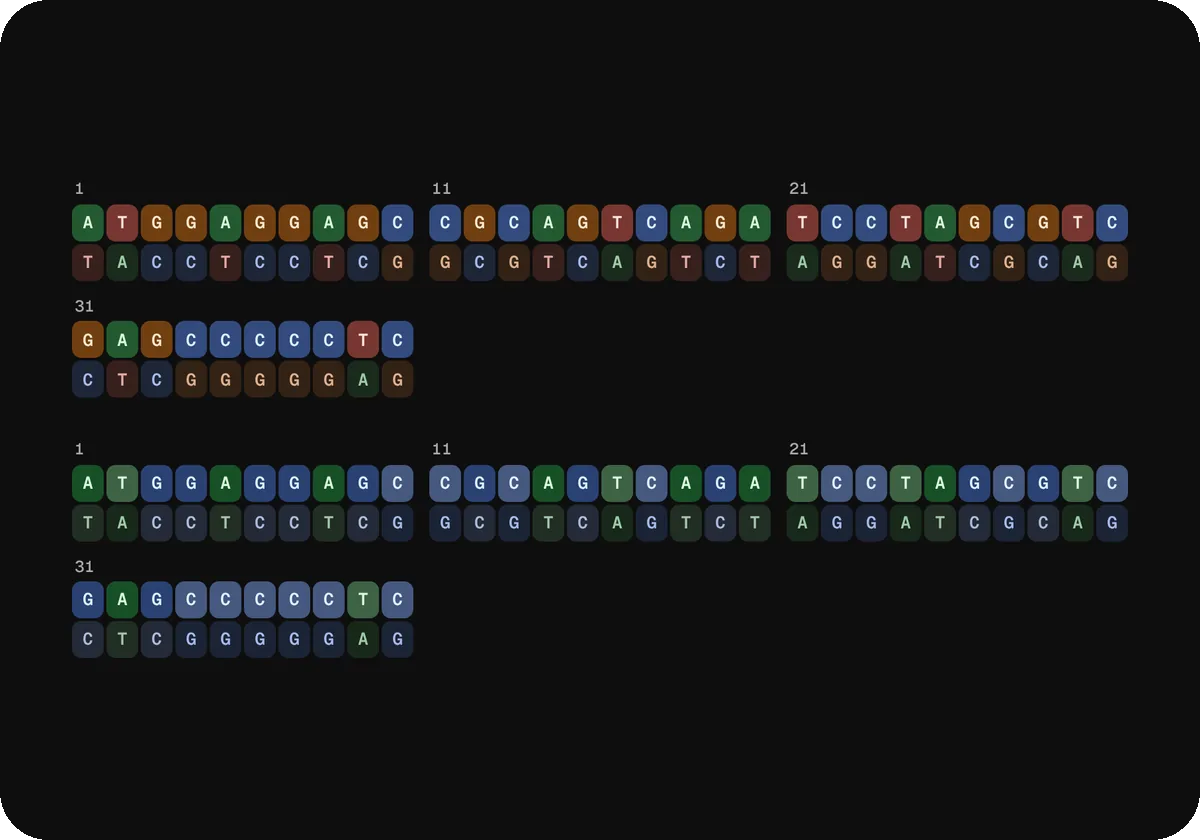
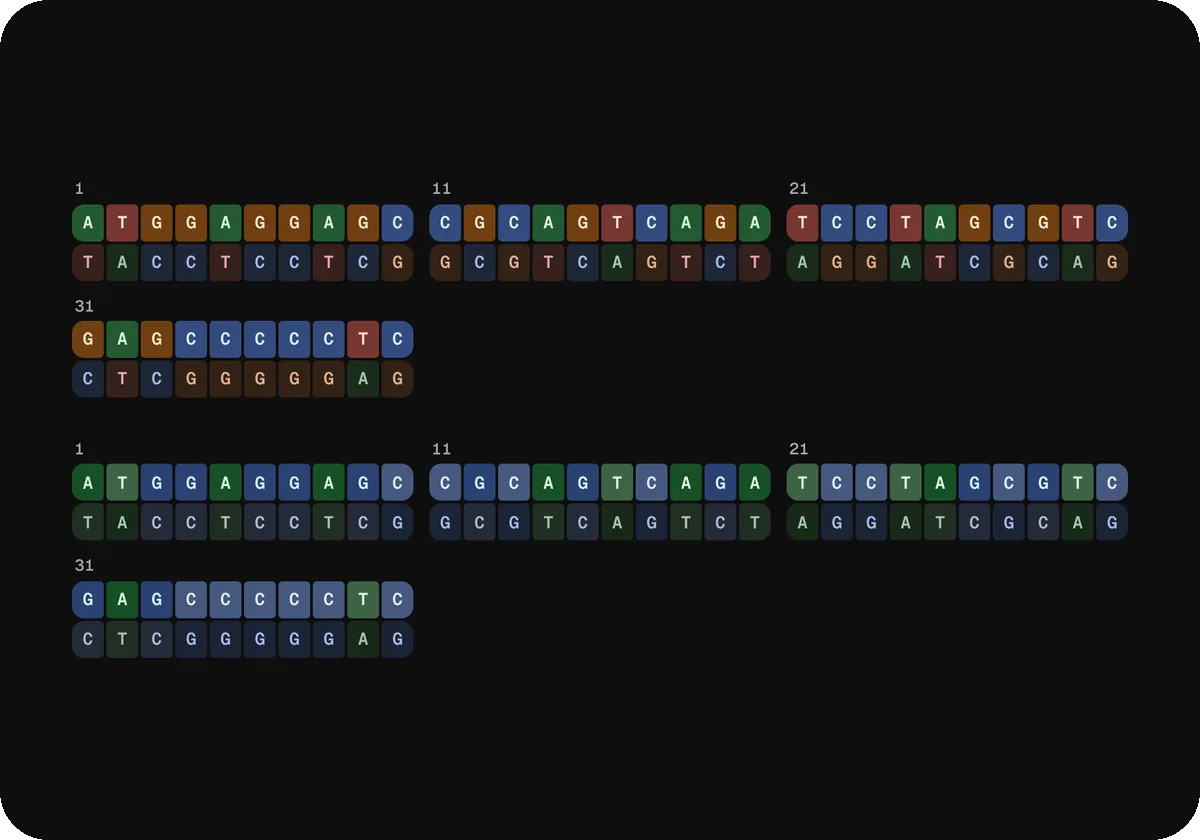
Residue sequences: connected shape by default
Like a connected button group: corners tighten where residues meet and stay
round at each block's ends; a selection or highlight becomes its own capsule,
codons become joined trios. shape="separate" keeps every corner round.

diff --git a/registry/nelumbo/ui/residue.tsx b/registry/nelumbo/ui/residue.tsx
@@ -59,10 +59,11 @@ const VARIANTS = {
   text: "[--ril:0.48] [--ric:0.15] dark:[--ril:0.82] dark:[--ric:0.13] [--rsd:0]",
 }
 
+// --ro: an outer corner, --ri: a corner joined to its neighbor, --rf: fully round (selected ends)
 const SIZES = {
-  sm: "h-5 min-w-4 px-0.5 text-[0.6875rem] rounded-[5px] data-[selected=true]:rounded-[10px]",
-  default: "h-7 min-w-6 px-1 text-[0.8125rem] rounded-[7px] data-[selected=true]:rounded-[14px]",
-  lg: "h-12 min-w-10 px-1.5 text-[1.25rem] rounded-[12px] data-[selected=true]:rounded-[24px]",
+  sm: "h-5 min-w-4 px-0.5 text-[0.6875rem] [--ro:6px] [--ri:2px] [--rf:10px]",
+  default: "h-7 min-w-6 px-1 text-[0.8125rem] [--ro:9px] [--ri:3px] [--rf:14px]",
+  lg: "h-12 min-w-10 px-1.5 text-[1.25rem] [--ro:14px] [--ri:4px] [--rf:24px]",
 }
 
 export type ResidueVariant = keyof typeof VARIANTS
@@ -72,6 +73,7 @@ const tile =
   "relative inline-flex shrink-0 select-text items-center justify-center font-mono font-semibold leading-none tabular-nums" +
   " bg-[color:oklch(calc(var(--rbl)+var(--rs,0)*var(--rsd))_calc(var(--rbc)*var(--rk,1))_var(--rh,0))]" +
   " text-[color:oklch(var(--ril)_calc(var(--ric)*var(--rk,1))_var(--rh,0))]" +
+  " rounded-l-[var(--rl)] rounded-r-[var(--rr)]" +
   " transition-[border-radius,background-color,color,outline-color] duration-500 ease-spring motion-reduce:transition-none" +
   " outline-2 outline-offset-1 outline-transparent data-[active=true]:outline-foreground/70"
 
@@ -87,6 +89,11 @@ type ResidueProps = Omit<React.ComponentProps<"span">, "children"> & {
   active?: boolean
   /** The full name, shown on hover ("Adenine"). */
   label?: string
+  /**
+   * Which sides touch a neighbor, as in a connected button group: joined
+   * corners tighten, the run's outer ends stay round. Sequences set this.
+   */
+  join?: { start?: boolean; end?: boolean }
 }
 
 function Residue({
@@ -96,12 +103,14 @@ function Residue({
   selected = false,
   active = false,
   label,
+  join,
   className,
   style,
   children,
   ...props
 }: ResidueProps) {
   const v = selected ? "solid" : variant
+  const edge = selected ? "var(--rf)" : "var(--ro)"
   return (
     <span
       data-slot="residue"
@@ -115,6 +124,8 @@ function Residue({
           "--rh": tone?.hue ?? 0,
           "--rk": tone ? (tone.chroma ?? 1) : 0,
           "--rs": tone?.shade ?? 0,
+          "--rl": join?.start ? "var(--ri)" : edge,
+          "--rr": join?.end ? "var(--ri)" : edge,
           ...style,
         } as React.CSSProperties
       }
@@ -146,8 +157,14 @@ type ResidueSequenceProps = Omit<React.ComponentProps<"div">, "children" | "onSe
   start?: number
   /** Stretches to bring forward: everything else fades to the subtle variant. */
   highlight?: ResidueRange[]
-  /** Something under each residue (the complementary base, say). */
-  below?: (letter: string, position: number) => React.ReactNode
+  /**
+   * "connected" (default): each block is one shape, tight corners between
+   * residues and round ends, and a selection becomes its own capsule.
+   * "separate": every tile keeps all four corners round.
+   */
+  shape?: "connected" | "separate"
+  /** Something under each residue (the complementary base, say). `join` matches the tile's. */
+  below?: (letter: string, position: number, join: { start: boolean; end: boolean }) => React.ReactNode
   /** Something under each block (the amino acid a codon makes, say). */
   footer?: (block: ResidueRange) => React.ReactNode
   /** Turns on pointer and keyboard selection. */
@@ -180,6 +197,7 @@ function ResidueSequence({
   ruler = false,
   start = 1,
   highlight,
+  shape = "connected",
   below,
   footer,
   selectable = false,
@@ -315,12 +333,18 @@ function ResidueSequence({
               {b.start}
             </span>
           )}
-          <div className={cn("flex", size === "sm" ? "gap-px" : "gap-0.5")}>
+          <div className={cn("flex", size === "sm" && shape === "separate" ? "gap-px" : "gap-0.5")}>
             {Array.from({ length: b.end - b.start + 1 }, (_, k) => {
               const p = b.start + k
               const letter = letters[p - start]
               const { tone, label } = resolve(letter)
-              const faded = highlight?.length && !highlight.some((r) => within(p, r))
+              const faded = !!highlight?.length && !highlight.some((r) => within(p, r))
+              // a neighbor joins when it is in the block and in the same state (selected, faded)
+              const state = (q: number) => `${within(q, selection)}${!!highlight?.length && !highlight.some((r) => within(q, r))}`
+              const join =
+                shape === "connected"
+                  ? { start: p > b.start && state(p - 1) === state(p), end: p < b.end && state(p + 1) === state(p) }
+                  : { start: false, end: false }
               const tileEl = (
                 <Residue
                   key={p}
@@ -331,6 +355,7 @@ function ResidueSequence({
                   variant={faded ? "subtle" : variant}
                   selected={within(p, selection)}
                   active={active === p}
+                  join={join}
                 >
                   {letter}
                 </Residue>
@@ -340,7 +365,7 @@ function ResidueSequence({
                 <span key={p} className="flex flex-col items-center gap-0.5">
                   {tileEl}
                   <span aria-hidden className="select-none">
-                    {below(letter, p)}
+                    {below(letter, p, join)}
                   </span>
                 </span>
               )

diff --git a/src/app/components/nucleotide/page.tsx b/src/app/components/nucleotide/page.tsx
@@ -56,15 +56,23 @@ export default function NucleotidePage() {
               <span className="type-label-md text-muted-foreground">{v}</span>
               <div className="flex flex-wrap items-center gap-6">
                 {(["sm", "default", "lg"] as const).map((s) => (
-                  <span key={s} className="flex gap-0.5">
-                    {"GATC".split("").map((b) => (
-                      <Nucleotide key={b} base={b} variant={v} size={s} />
-                    ))}
-                  </span>
+                  <NucleotideSequence key={s} sequence="GATC" groupSize={0} variant={v} size={s} aria-label={`${v}, ${s}`} />
                 ))}
               </div>
             </React.Fragment>
           ))}
+        </Preview>
+      </Section>
+
+      <Section
+        title="Shape"
+        description="Sequences are connected by default, like a connected button group: corners tighten where bases meet and stay round at the ends of each block, and a selection becomes its own capsule. separate keeps every corner round."
+      >
+        <Preview className="grid gap-5 sm:grid-cols-[auto_1fr] sm:items-center">
+          <span className="type-label-md text-muted-foreground">connected</span>
+          <NucleotideSequence sequence={TP53.slice(0, 30)} defaultSelection={{ start: 14, end: 18 }} selectable aria-label="Connected shape" />
+          <span className="type-label-md text-muted-foreground">separate</span>
+          <NucleotideSequence sequence={TP53.slice(0, 30)} defaultSelection={{ start: 14, end: 18 }} selectable shape="separate" aria-label="Separate shape" />
         </Preview>
       </Section>
 
@@ -147,6 +155,7 @@ export default function NucleotidePage() {
             ["groupSize", "number", "10", "Bases per block. 0 for one block."],
             ["ruler", "boolean", "false", "Numbers each block with its first position."],
             ["start", "number", "1", "Position of the first base."],
+            ["shape", '"connected" | "separate"', '"connected"', "Connected joins each block into one shape; a selection becomes its own capsule."],
             ["complement", "boolean", "false", "Shows the paired strand under each base."],
             ["highlight", "{ start, end }[]", "", "Stretches to bring forward. 1-based, inclusive."],
             ["footer", "(block) => ReactNode", "", "Drawn under each block: codon translations, annotations."],

diff --git a/src/app/components/amino-acid/page.tsx b/src/app/components/amino-acid/page.tsx
@@ -54,16 +54,8 @@ export default function AminoAcidPage() {
 
       <Section title="Notation" description='notation="three" shows Trp instead of W. The tile widens; the colors stay.'>
         <Preview className="flex-col items-start gap-4">
-          <div className="flex flex-wrap gap-1">
-            {"MEEPQSDPSV".split("").map((a, i) => (
-              <AminoAcid key={i} residue={a} />
-            ))}
-          </div>
-          <div className="flex flex-wrap gap-1">
-            {"MEEPQSDPSV".split("").map((a, i) => (
-              <AminoAcid key={i} residue={a} notation="three" />
-            ))}
-          </div>
+          <ProteinSequence sequence="MEEPQSDPSV" groupSize={5} aria-label="One-letter notation" />
+          <ProteinSequence sequence="MEEPQSDPSV" groupSize={5} notation="three" aria-label="Three-letter notation" />
         </Preview>
       </Section>
 
@@ -78,7 +70,7 @@ export default function AminoAcidPage() {
                 <p className="type-title-sm">{s.name}</p>
                 <p className="type-body-sm text-muted-foreground">{s.about}</p>
               </div>
-              <ProteinSequence sequence="ACDEFGHIKLMNPQRSTVWY" scheme={s.id} groupSize={0} size="sm" aria-label={`${s.name} scheme example`} />
+              <ProteinSequence sequence="ACDEFGHIKLMNPQRSTVWY" scheme={s.id} groupSize={10} size="sm" aria-label={`${s.name} scheme example`} />
             </React.Fragment>
           ))}
         </Preview>

diff --git a/registry/nelumbo/ui/nucleotide.tsx b/registry/nelumbo/ui/nucleotide.tsx
@@ -193,7 +193,9 @@ function NucleotideSequence({
       unit="base"
       below={
         showComplement
-          ? (b) => <Nucleotide base={complement(b, rna)} scheme={scheme} size={size} variant="subtle" aria-hidden title={undefined} />
+          ? (b, _p, join) => (
+              <Nucleotide base={complement(b, rna)} scheme={scheme} size={size} variant="subtle" join={join} aria-hidden title={undefined} />
+            )
           : undefined
       }
       {...props}

diff --git a/src/lib/nelumbo/icons.generated.ts b/src/lib/nelumbo/icons.generated.ts
@@ -128,6 +128,7 @@ export const USED_ICONS: IconName[] = [
   "ink_eraser",
   "input",
   "ios_share",
+  "join",
   "keep",
   "key",
   "keyboard",
